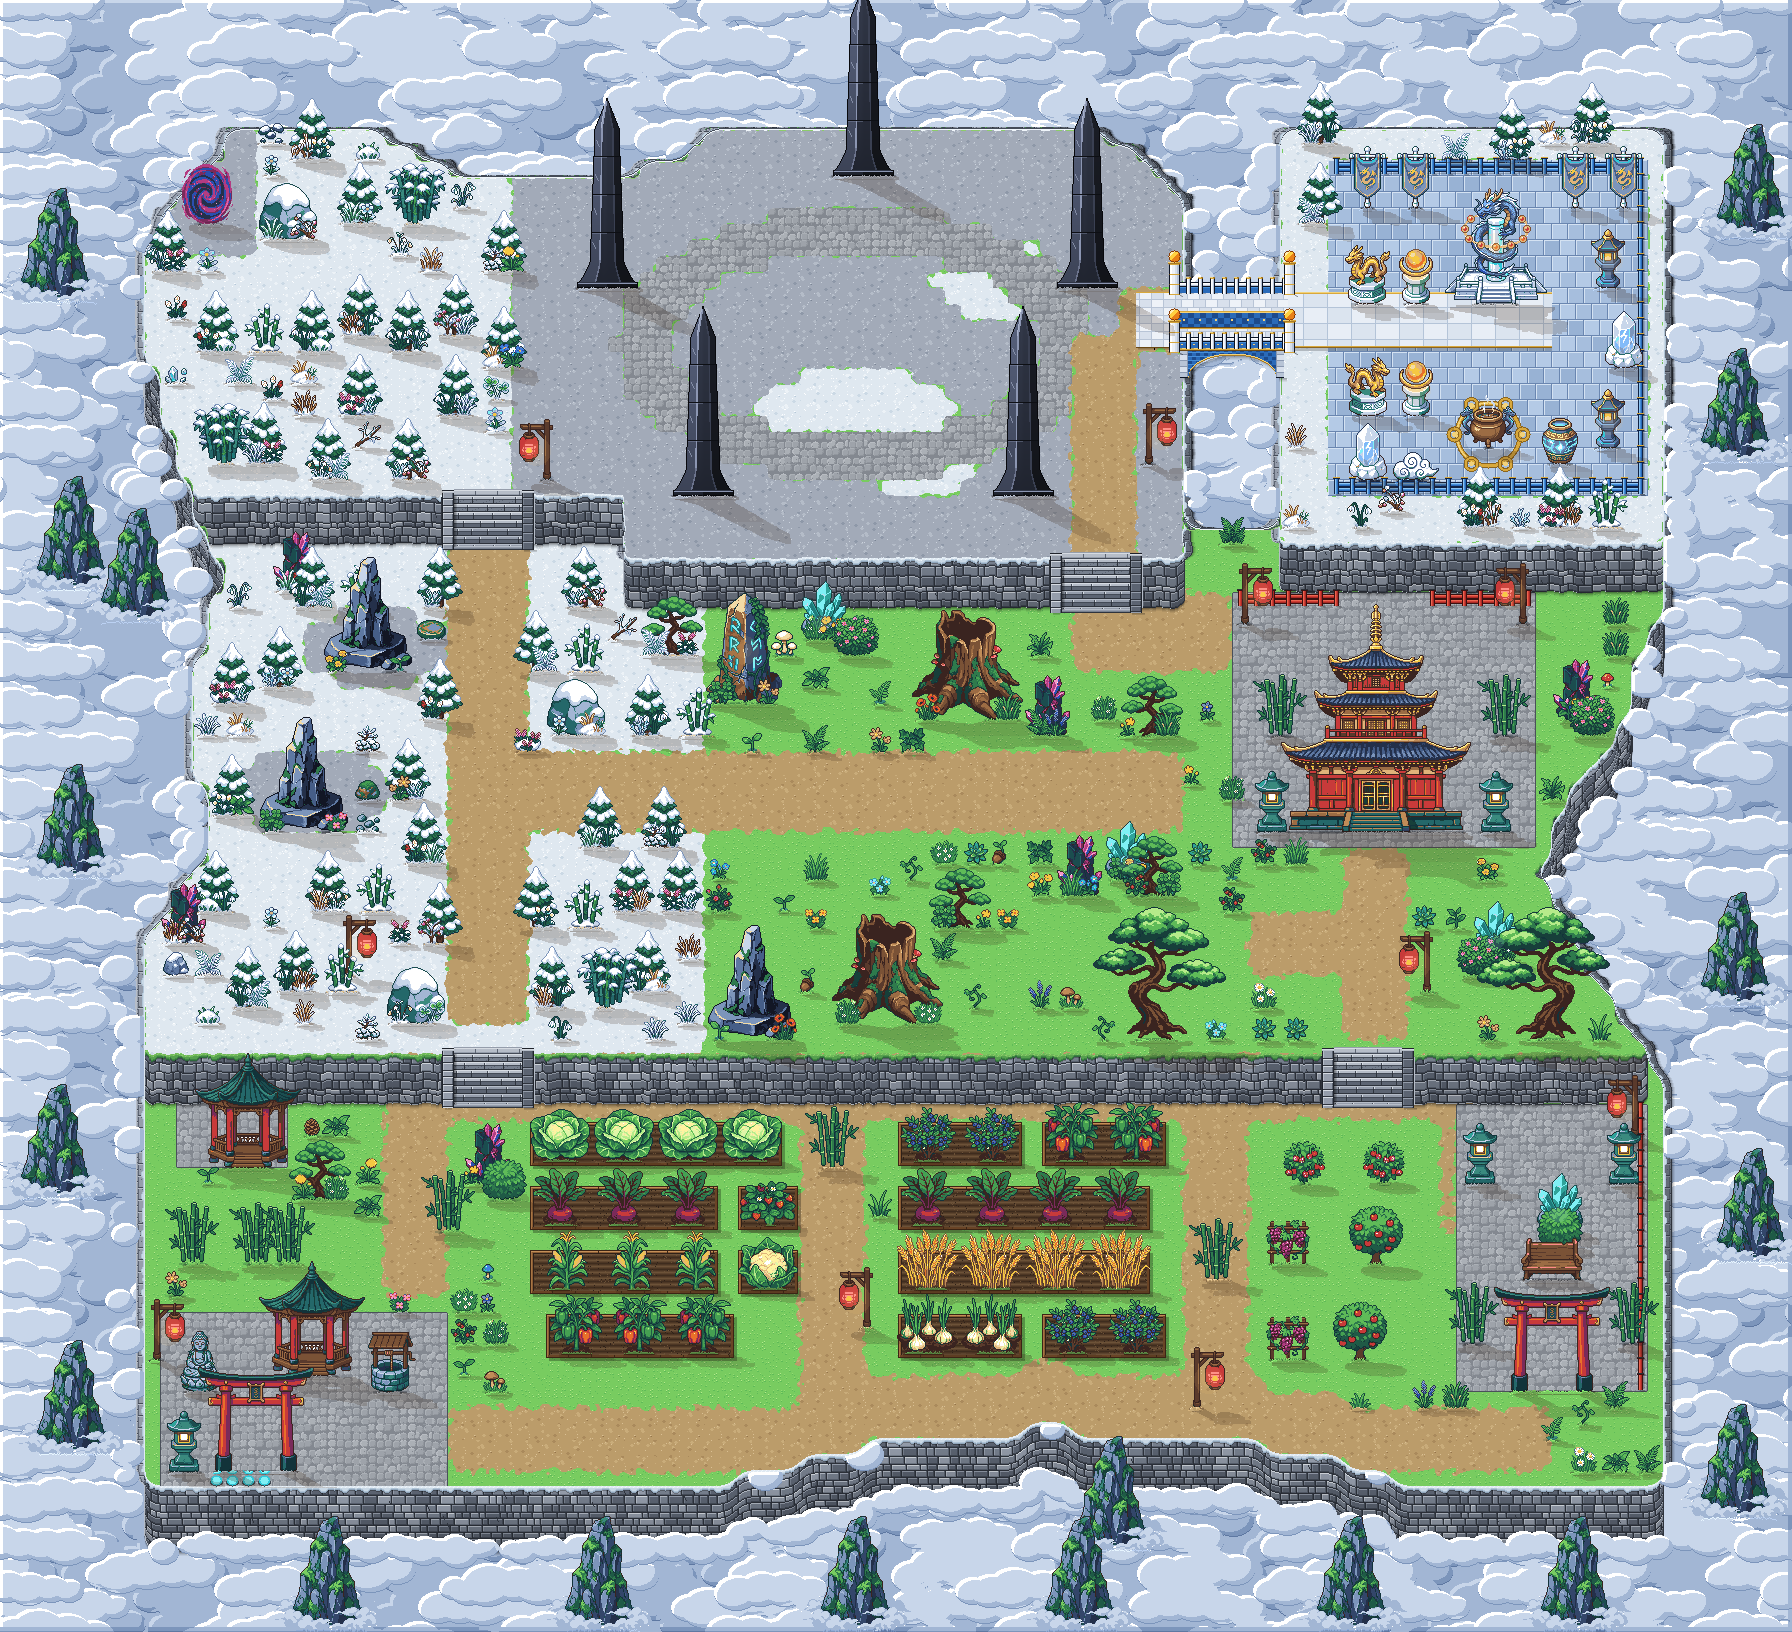
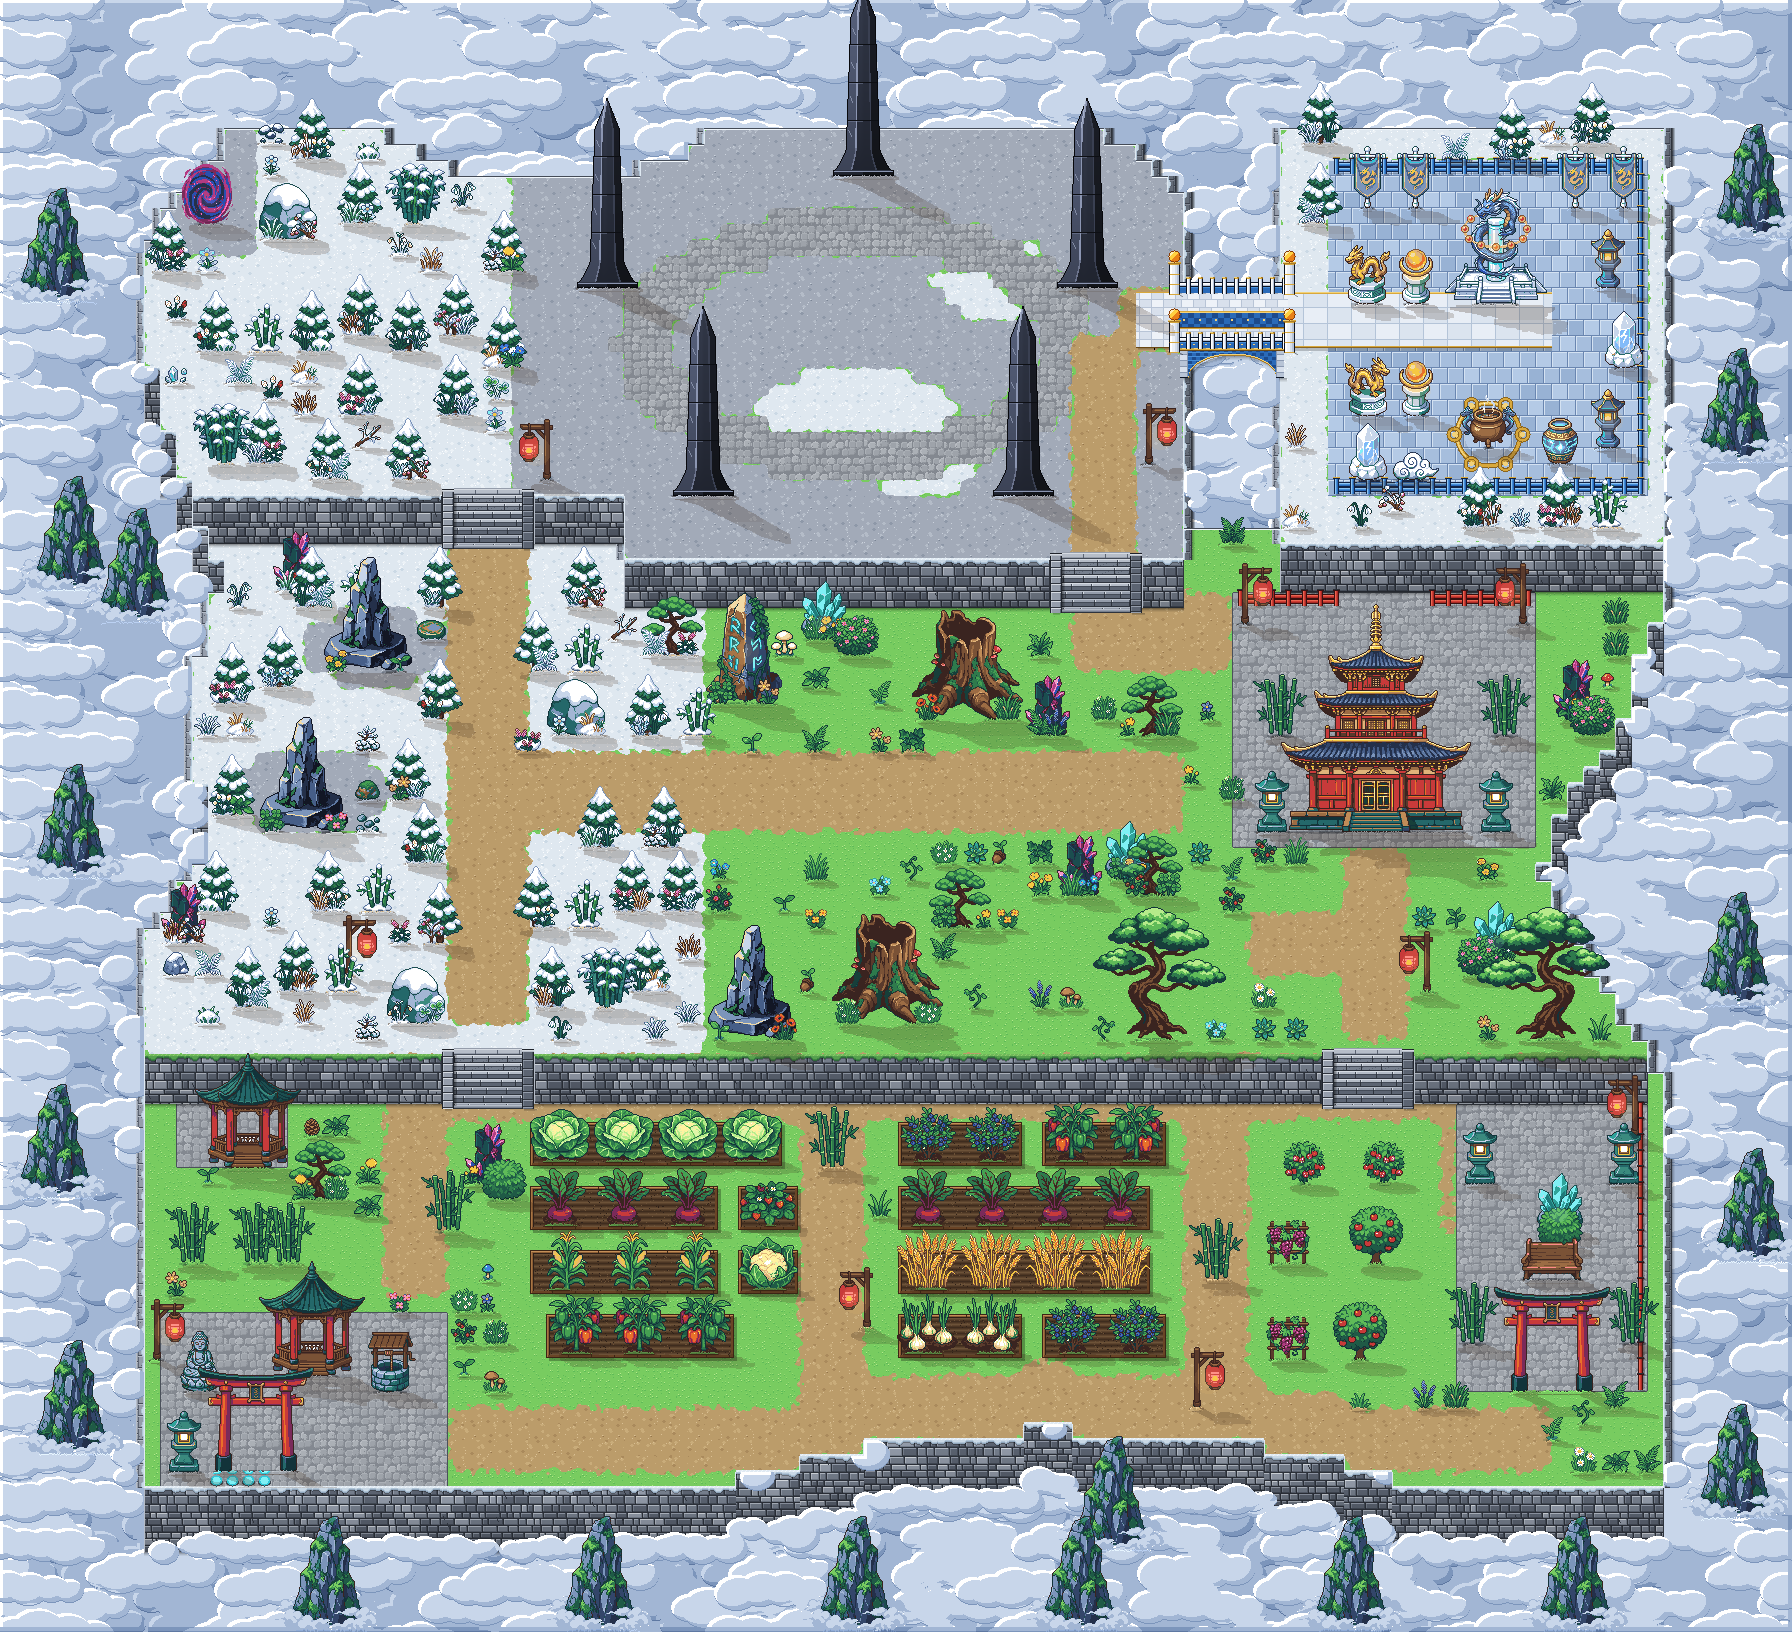
Karte 07: Inselkante und Terrassenkanten genau am 16er-Raster (keine weichen/schraegen Raender mehr)
Claude-Session: https://claude.ai/code/session_01SaoYHKhnro4LFcPJqjaPsq

diff --git a/tools/karte07_bauen.py b/tools/karte07_bauen.py
@@ -798,8 +798,8 @@ def bauen(frame=None, speichern=True):
     hoehe = np.array([[int(c) for c in r] for r in lay['hoehe']])
     Wp, Hp = COLS * T, ROWS * T
     a = wolkenmeer(frame)
-    insel_hart = zell_maske([''.join('1' if 1 <= v <= 3 else '0' for v in r) for r in hoehe], '1', COLS, ROWS)
-    insel = weich(insel_hart, 9, 0, 20)
+    insel_hart = zell_maske([''.join('1' if 1 <= v <= 3 else '0' for v in r) for r in hoehe], '1', COLS, ROWS) > 0
+    insel = insel_hart.copy()                                   # Inselkante genau am 16er-Raster (Nutzer)
     gras = flaeche(kacheln(os.path.join(ROOT, 'assets', 'basis', 'gras_%d.png'), 5))
     a[insel] = gras[insel]
     schnee = flaeche(kacheln(os.path.join(ROOT, 'assets', 'karte05', 'basis', 's_%d.png'), 5))
@@ -820,8 +820,8 @@ def bauen(frame=None, speichern=True):
     beete(a, frame)
     # Hoehenkanten: Insel -> Wolken (tiefe Felsfront), Stufen 1->2->3 mit Treppen
     m1 = insel
-    m2 = weich(zell_maske([''.join('1' if 2 <= v <= 3 else '0' for v in r) for r in hoehe], '1', COLS, ROWS), 4, 0.25, 21) 
-    m3 = weich(zell_maske([''.join('1' if v == 3 else '0' for v in r) for r in hoehe], '1', COLS, ROWS), 4, 0.25, 22) 
+    m2 = zell_maske([''.join('1' if 2 <= v <= 3 else '0' for v in r) for r in hoehe], '1', COLS, ROWS) > 0   # am Raster
+    m3 = zell_maske([''.join('1' if v == 3 else '0' for v in r) for r in hoehe], '1', COLS, ROWS) > 0   # am Raster
     frei = np.zeros((Hp, Wp), bool)
     treppen = []
     for (x0, x1, y0, y1) in lay['treppen']:
@@ -846,7 +846,7 @@ def bauen(frame=None, speichern=True):
                 unten.append((x + rs_.randint(10, 22), y))
             if x > 0 and not insel[y, x - 1] and rs_.random() < 0.45:
                 unten.append((x - rs_.randint(10, 22), y))
-    wolken_vorne(a, weich(insel_hart, 9, 0, 20), unten, frame)
+    wolken_vorne(a, insel_hart, unten, frame)
     img = Image.fromarray(a).convert('RGBA')
     alt = bauwerke.S
     bauwerke.S = [H(c) + (255,) for c in k4.FELS['wolkenfels']]
